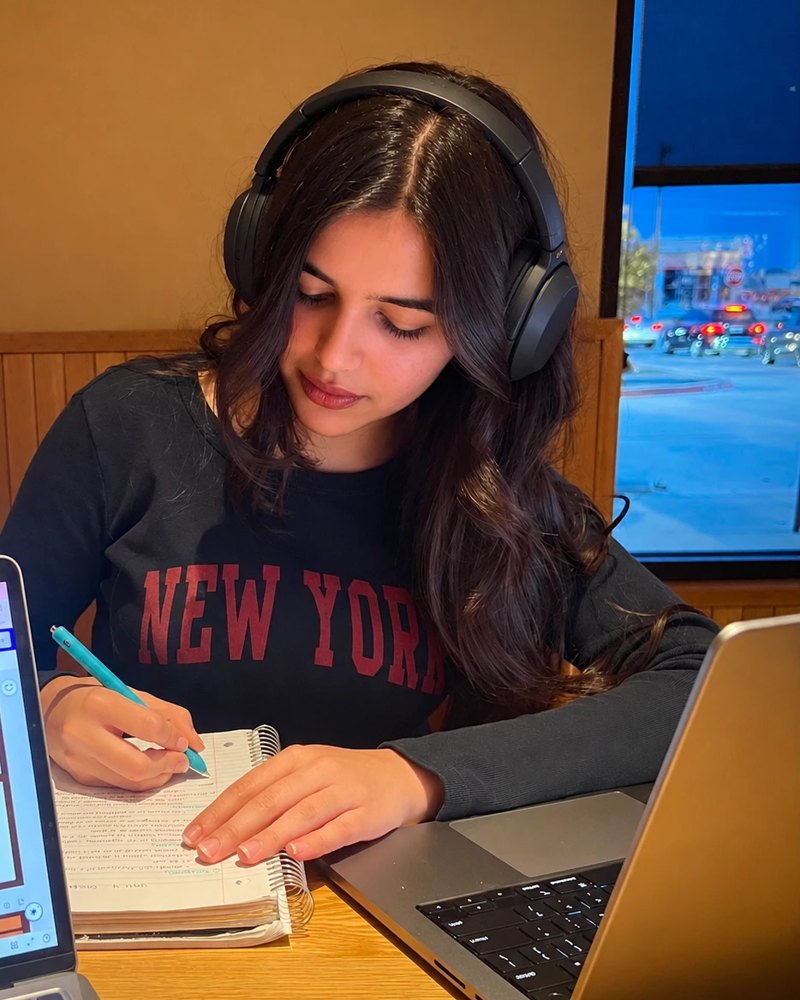
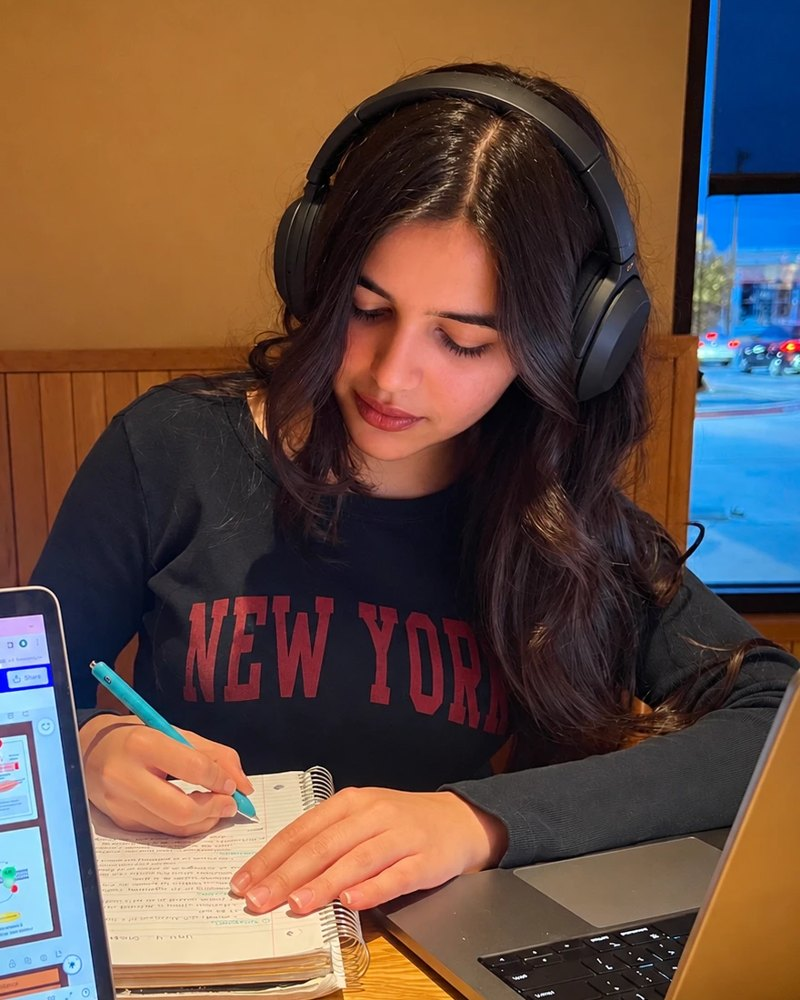
Hero photo centered on my face

diff --git a/app/static/index.html b/app/static/index.html
@@ -50,7 +50,7 @@
             </div>
         </div>
         <figure class="hero-photo">
-            <img src="/static/suhani.jpg?v=3" width="800" height="1000" alt="Suhani in headphones, taking notes beside her laptop">
+            <img src="/static/suhani.jpg?v=4" width="800" height="1000" alt="Suhani in headphones, taking notes beside her laptop">
             <figcaption class="now-playing">
                 <button type="button" class="play" id="heroPlay" aria-label="Play my most-played song"></button>
                 <span><small>My most-played song</small><b id="heroSong">Loading…</b></span>
@@ -395,7 +395,7 @@ shuffle       false</pre>
 <footer class="player-foot" aria-label="Footer">
     <div class="player-in">
         <div class="player-now">
-            <img src="/static/suhani.jpg?v=3" width="56" height="56" alt="" loading="lazy">
+            <img src="/static/suhani.jpg?v=4" width="56" height="56" alt="" loading="lazy">
             <div><p class="player-track">The outro</p><p class="player-artist">Suhani Tiwari</p></div>
         </div>
         <div class="player-mid">

diff --git a/app/static/about.html b/app/static/about.html
@@ -73,7 +73,7 @@
 <footer class="player-foot" aria-label="Footer">
     <div class="player-in">
         <div class="player-now">
-            <img src="/static/suhani.jpg?v=3" width="56" height="56" alt="" loading="lazy">
+            <img src="/static/suhani.jpg?v=4" width="56" height="56" alt="" loading="lazy">
             <div><p class="player-track">The outro</p><p class="player-artist">Suhani Tiwari</p></div>
         </div>
         <div class="player-mid">
